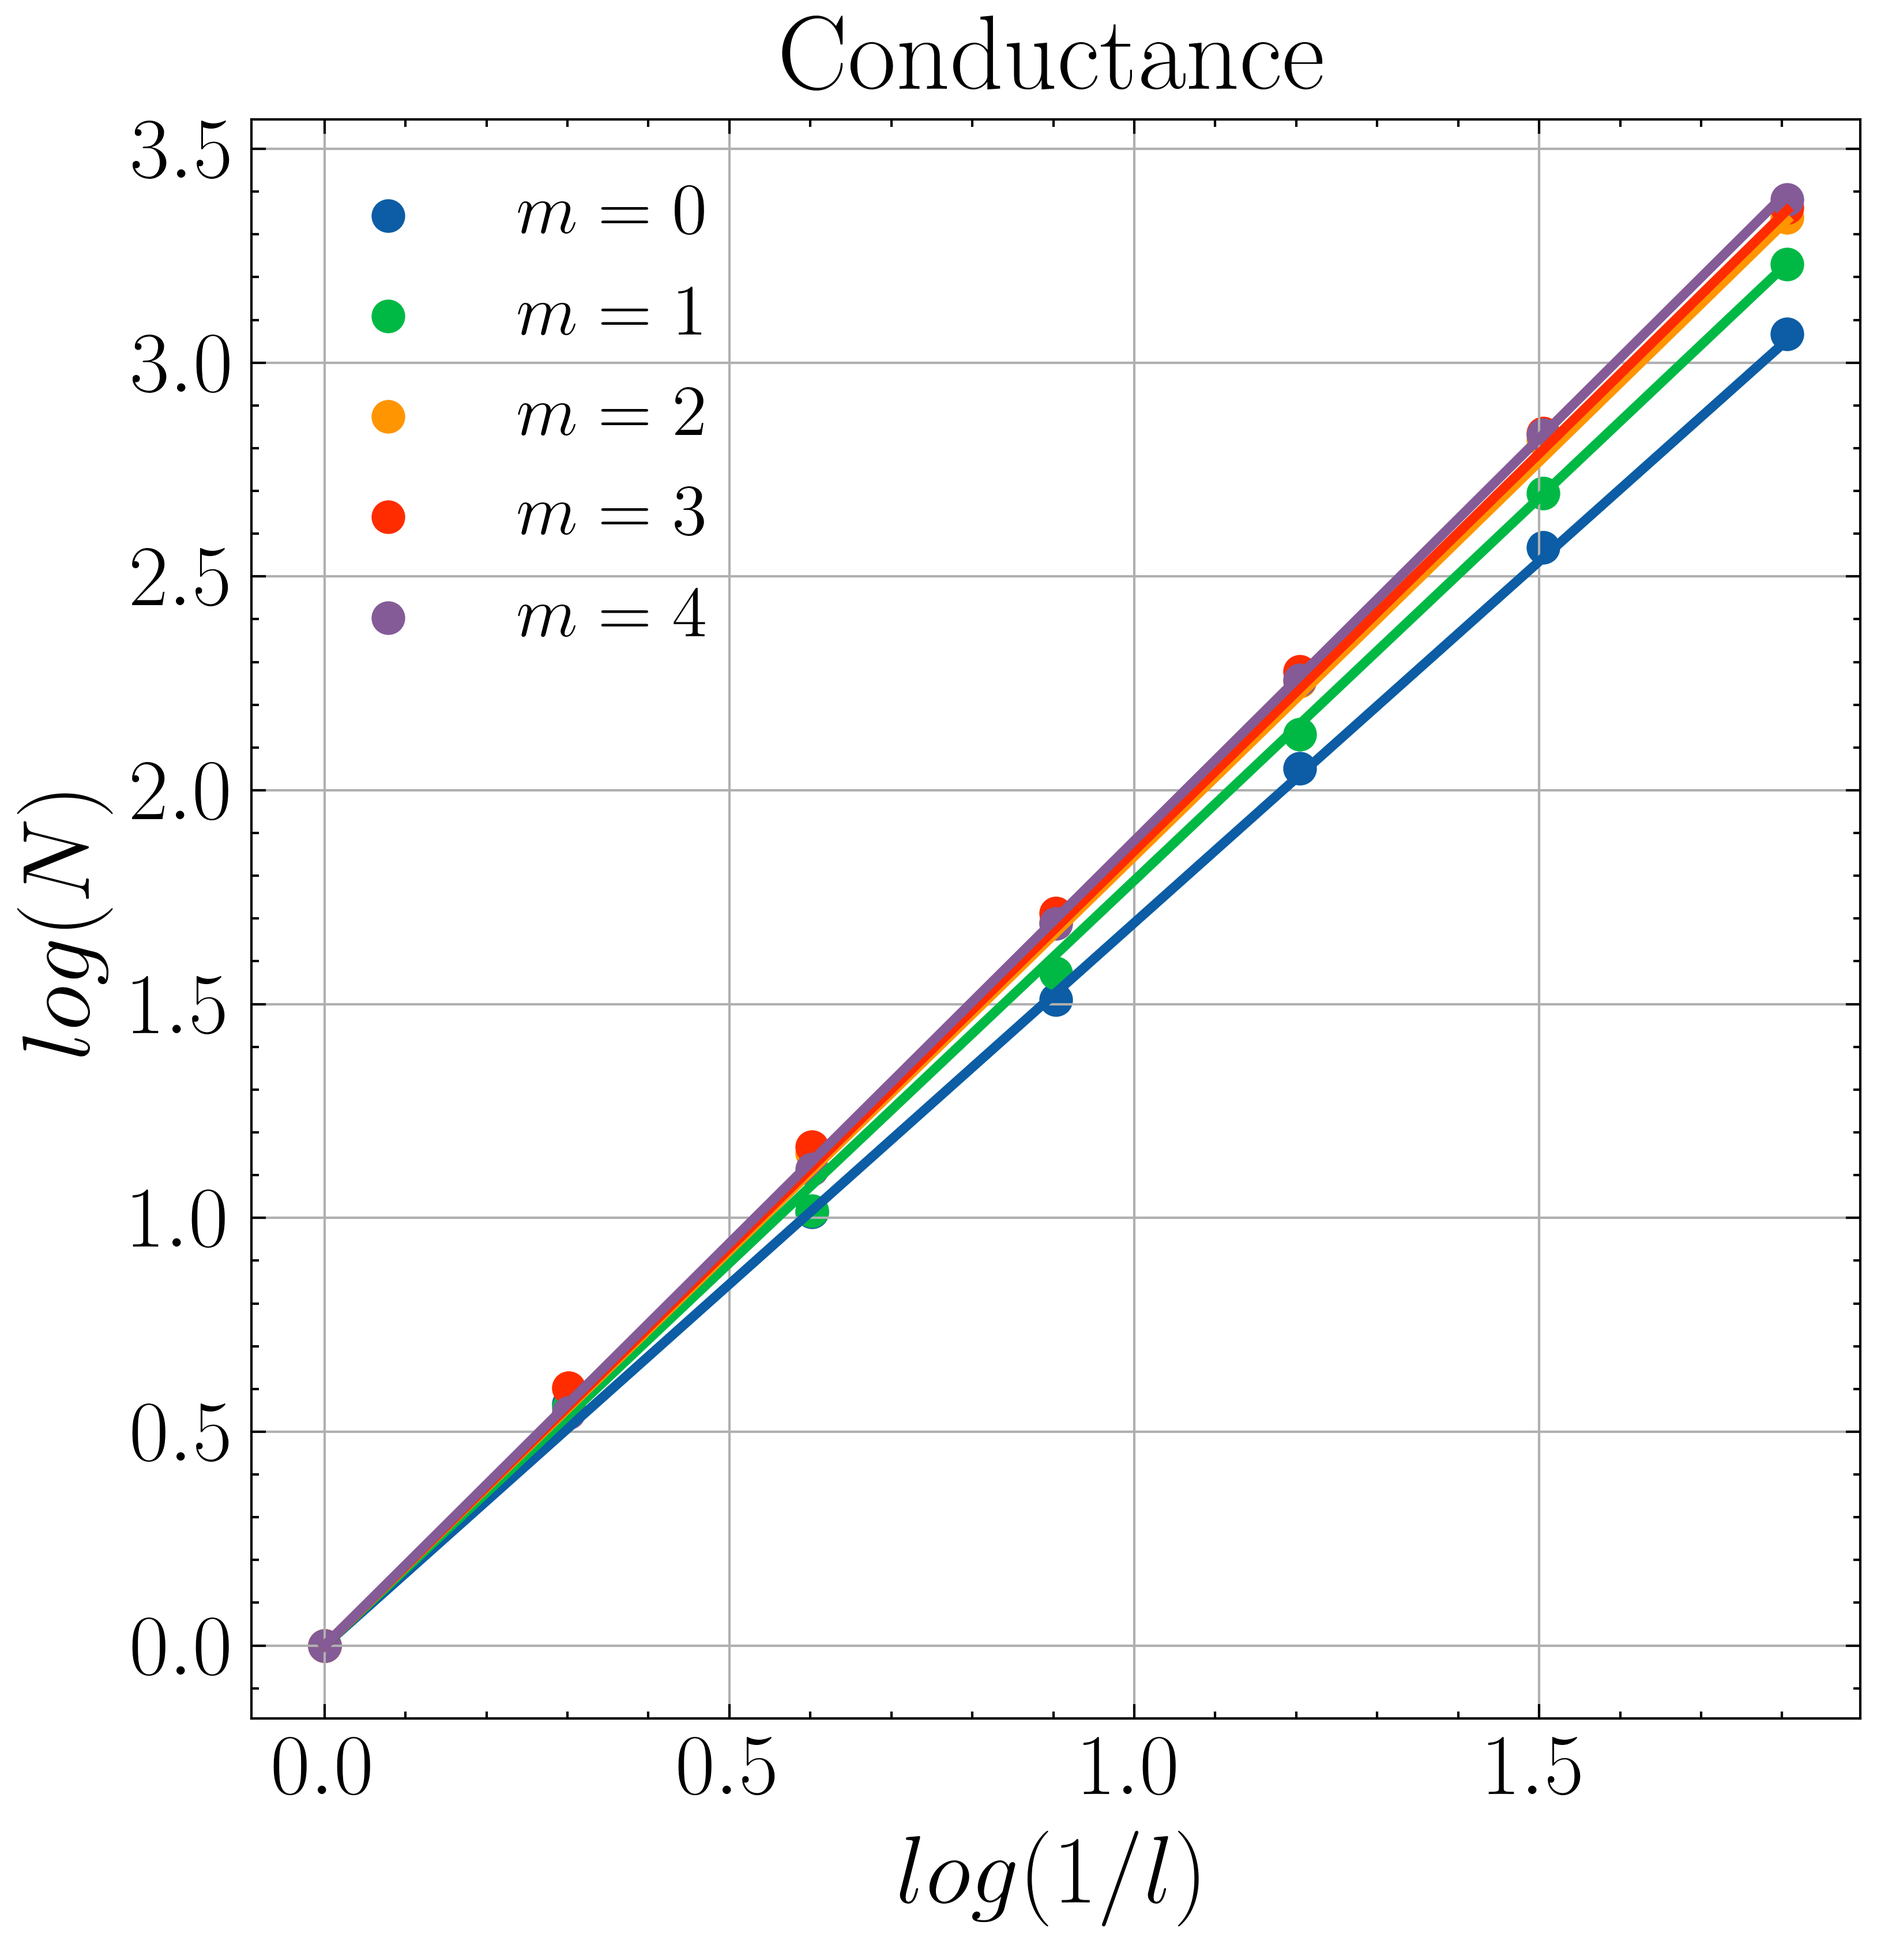
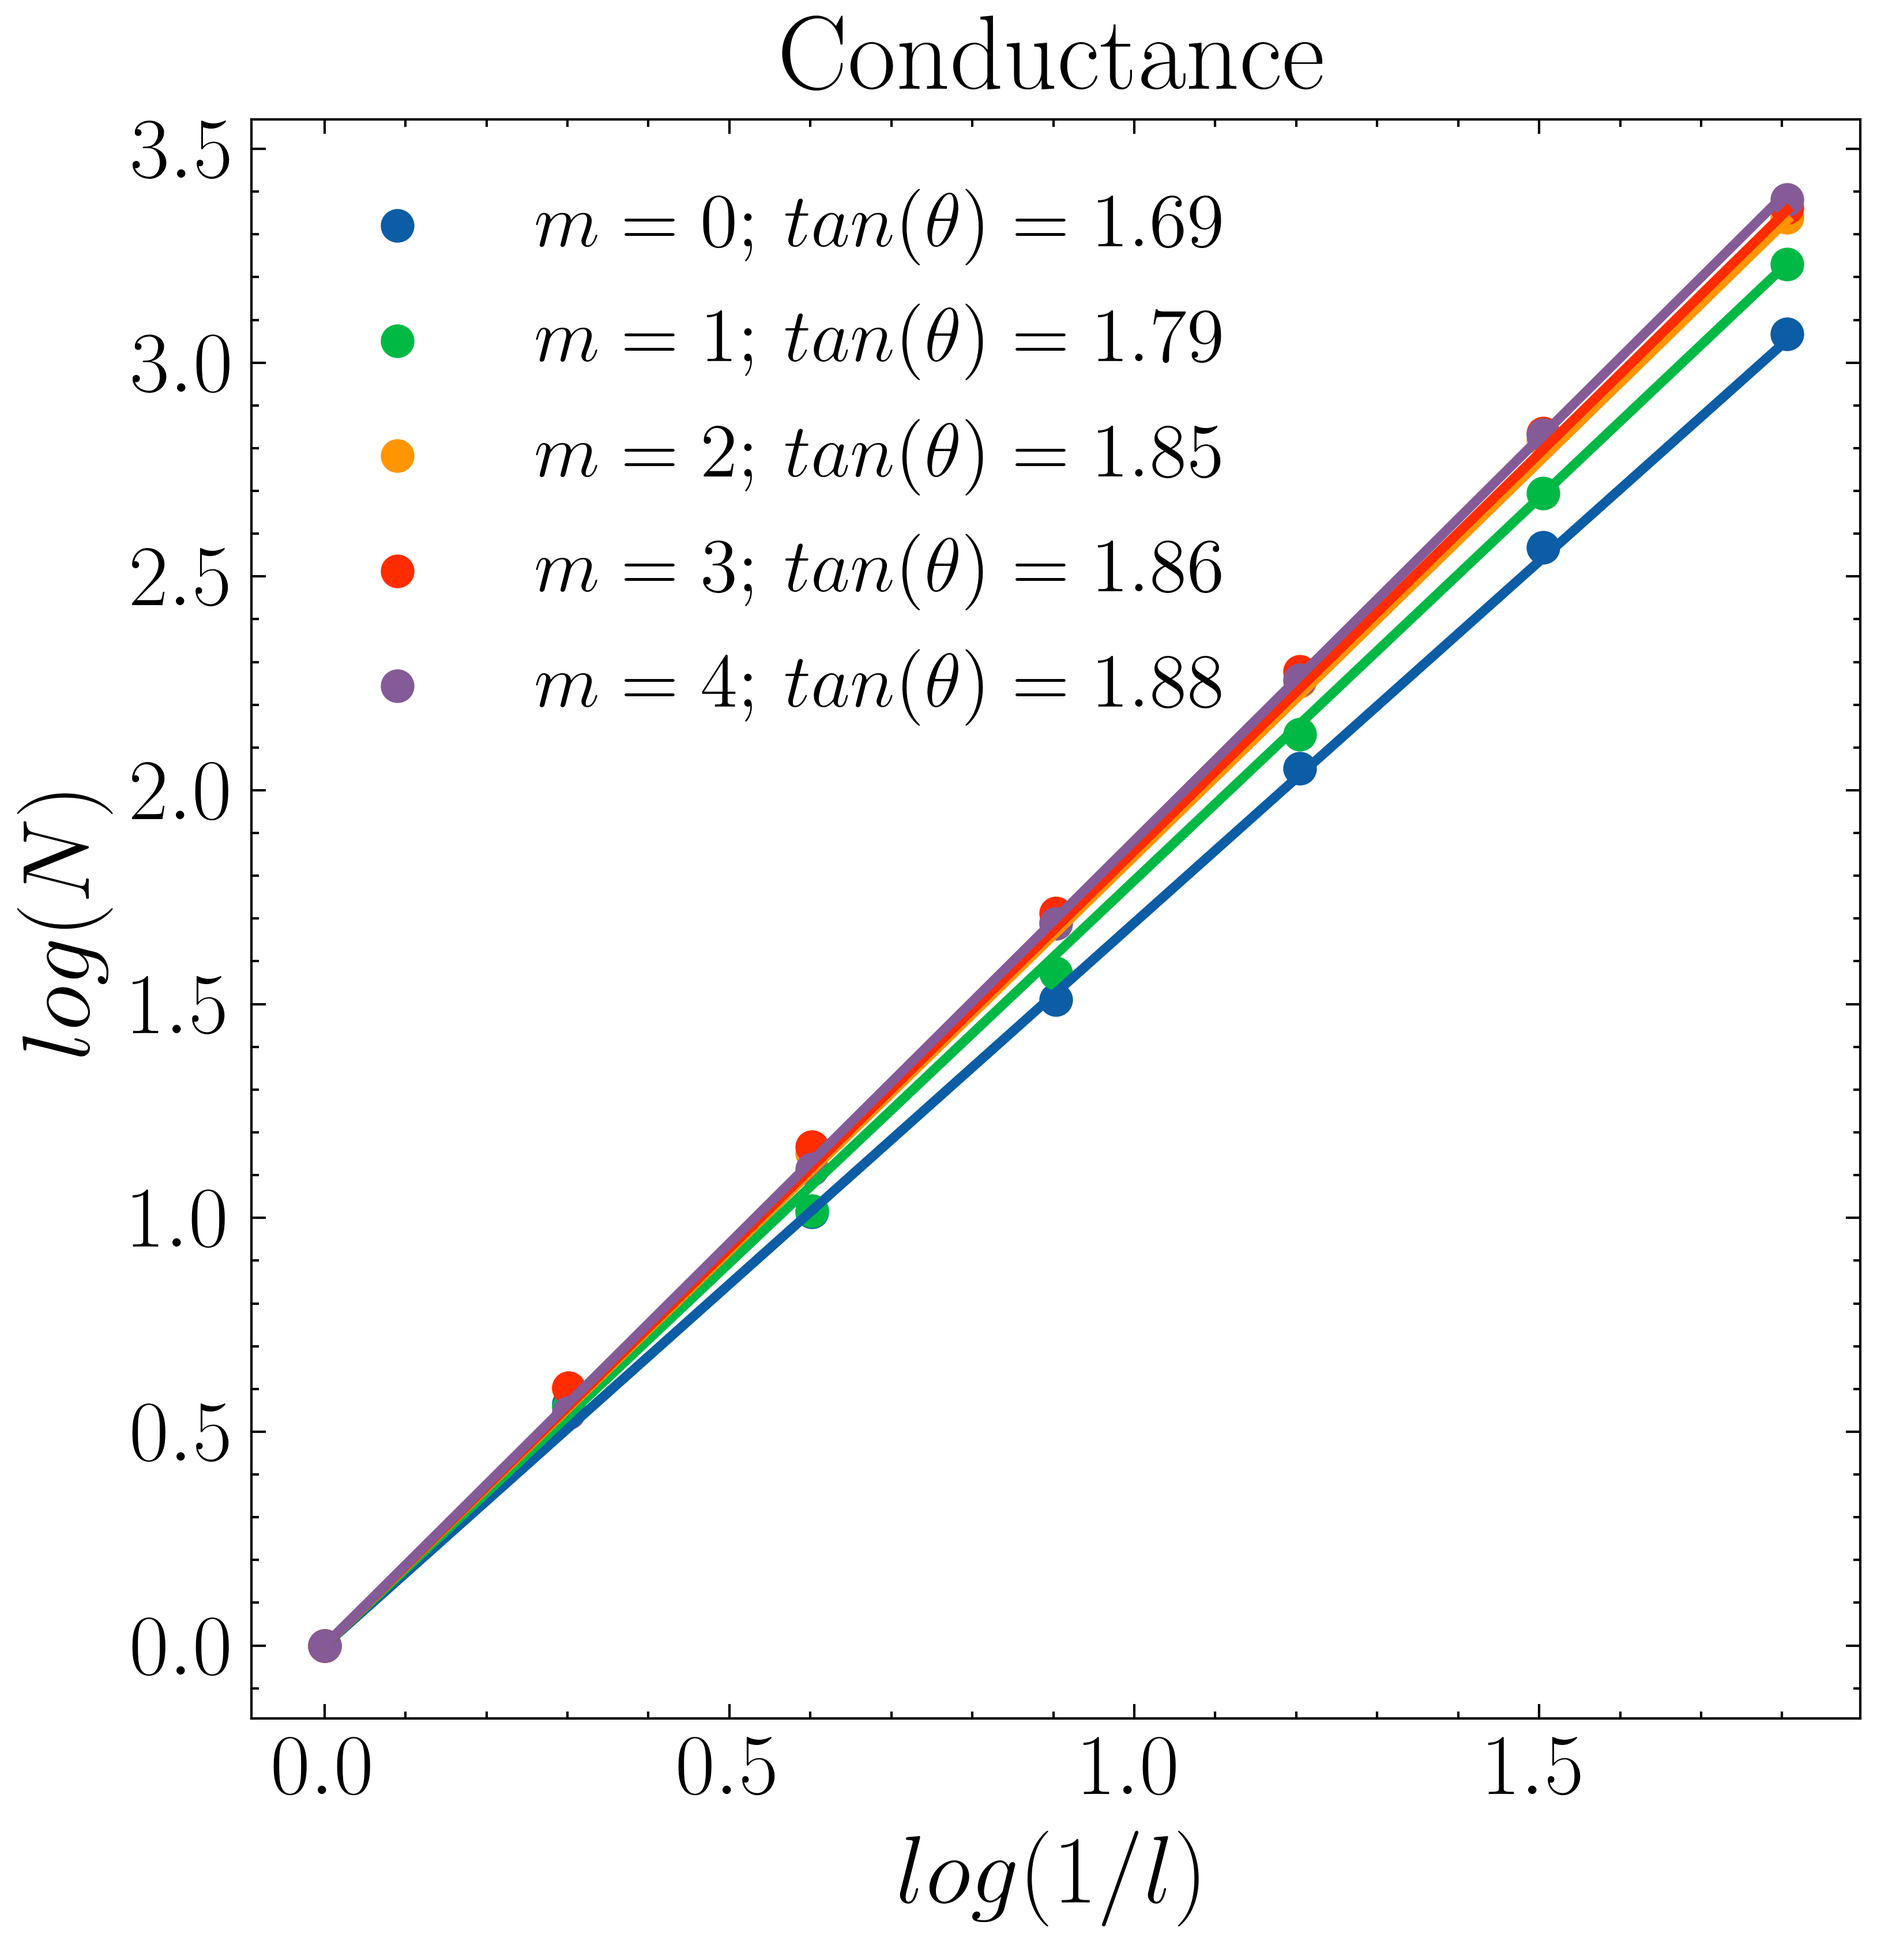
add

diff --git a/Resultados_Finais/box_counting/Novo_box_counting/fig4.py b/Resultados_Finais/box_counting/Novo_box_counting/fig4.py
@@ -1,0 +1,34 @@
+import numpy as np
+import matplotlib.pyplot as plt
+import scienceplots
+
+data0 = np.loadtxt("m0/outputG/G0.dat", float)
+data1 = np.loadtxt("m1/outputG/G0.dat", float)
+data2 = np.loadtxt("m2/outputG/G0.dat", float)
+data3 = np.loadtxt("m3/outputG/G0.dat", float)
+data3 = np.loadtxt("m4/outputG/G0.dat", float)
+
+plt.style.use(['science'])
+fig, axes = plt.subplots(5, 1, figsize=(6, 10), sharey=False)
+
+axes[0].plot(data0[:,0], data0[:,1], linewidth=0.5)
+axes[0].set_xlim(-0.05, 0.05)
+#axes[0].set_ylim(7, 12.5)
+
+axes[1].plot(data1[:,0], data1[:,1], linewidth=0.5)
+axes[1].set_xlim(-0.05, 0.05)
+#axes[1].set_ylim(5.5, 13)
+
+axes[2].plot(data2[:,0], data2[:,1], linewidth=0.5)
+axes[2].set_xlim(-0.05, 0.05)
+#axes[2].set_ylim(12.5, 18)
+
+axes[3].plot(data2[:,0], data2[:,1], linewidth=0.5)
+axes[3].set_xlim(-0.05, 0.05)
+#axes[2].set_ylim(5.5, 13)
+
+axes[4].plot(data2[:,0], data2[:,1], linewidth=0.5)
+axes[4].set_xlim(-0.05, 0.05)
+#axes[2].set_ylim(5.5, 13)
+
+plt.show()

diff --git a/Resultados_Finais/box_counting/Novo_box_counting/graf_fig5S.py b/Resultados_Finais/box_counting/Novo_box_counting/graf_fig5S.py
@@ -26,7 +26,7 @@ for i in range(5):
     y = y-y[0]
     datay = datay-datay[0]
 
-    plt.scatter(datax, datay, label=rf'$m={i}$')
+    plt.scatter(datax, datay, label=rf'$m={i}$; $tan(\theta)={round(lista[i],2)}$')
     plt.plot(x,y, linewidth=2)
 
 
@@ -35,7 +35,6 @@ plt.ylabel('$log(N)$', fontsize=20)
 plt.title('Shot Noise Power', fontsize=22)
 plt.tick_params(labelsize=18)
 
-plt.legend(loc='best', fontsize=15)
-plt.grid(True)
+plt.legend(loc='best', fontsize=16)
 plt.savefig('figSd.png', dpi=600)
 plt.show()

diff --git a/Resultados_Finais/box_counting/Novo_box_counting/graf_fig5G.py b/Resultados_Finais/box_counting/Novo_box_counting/graf_fig5G.py
@@ -31,7 +31,7 @@ for i in range(5):
     y = y-y[0]
     datay = datay-datay[0]
 
-    plt.scatter(datax, datay, label=rf'$m={i}$')
+    plt.scatter(datax, datay, label=rf'$m={i}$; $tan(\theta)={round(lista[i],2)}$')
     plt.plot(x,y, linewidth=2)
 
 
@@ -40,9 +40,6 @@ plt.ylabel('$log(N)$', fontsize=20)
 plt.title('Conductance', fontsize=22)
 plt.tick_params(labelsize=18)
 
-plt.legend(loc='best', fontsize=15)
-plt.grid(True)
+plt.legend(loc='best', fontsize=16)
 plt.savefig('figGd.png', dpi=600)
 plt.show()
-
-
